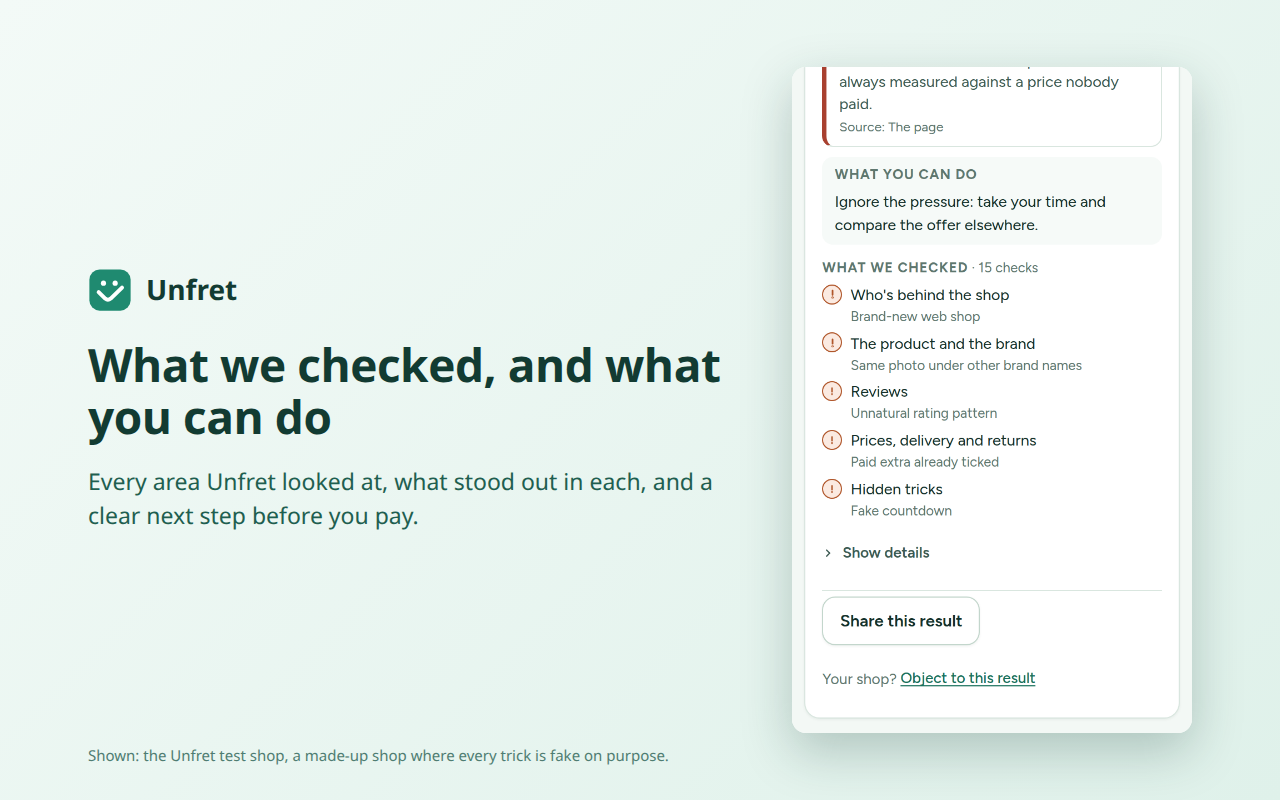
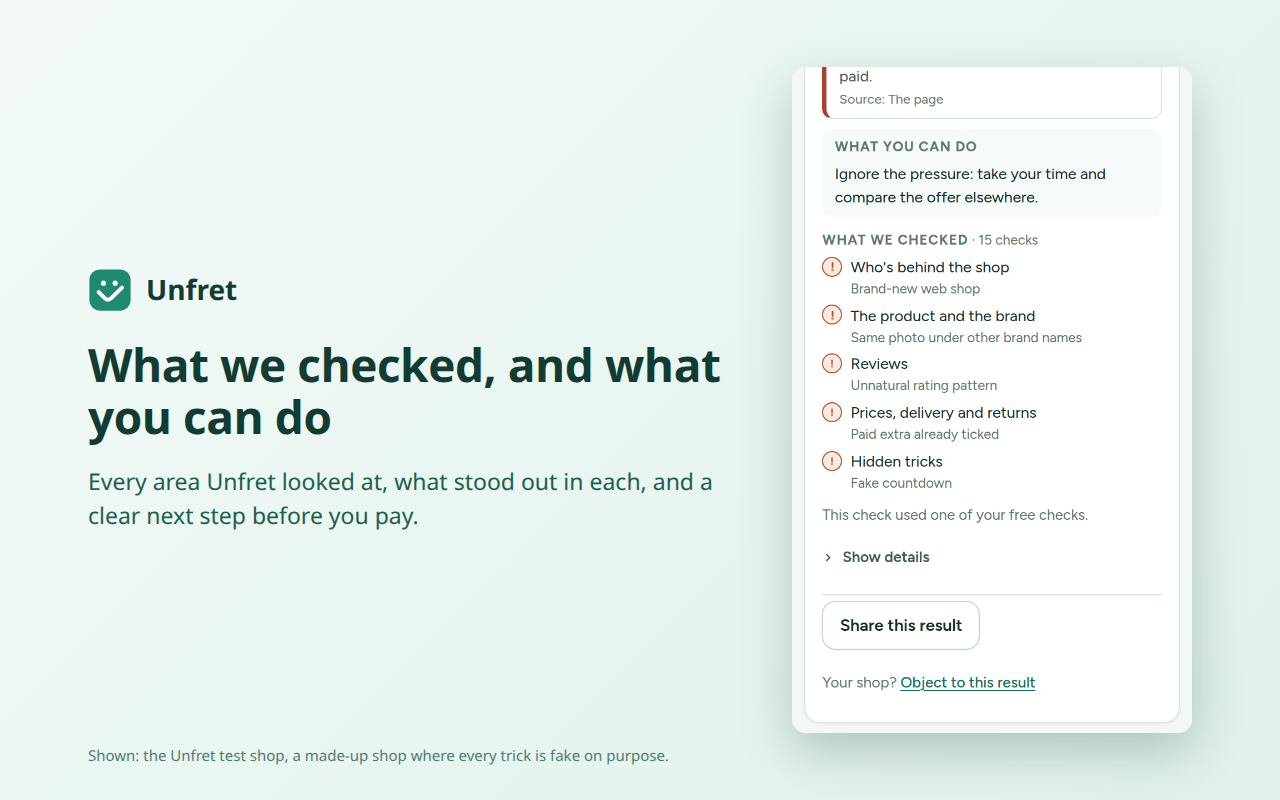
Screenshots rendered again with main's popup
After merging main, `make screenshots` renders "Free to start" with the
"Quick check (free)" button under "Check this page" and "What we checked"
with what the check cost; the other screenshots are unchanged.

Changed region(s): [[0.625, 0.0938, 0.875, 0.6562], [0.6562, 0.6875, 0.7812, 0.8125], [0.625, 0.8438, 0.8125, 0.875]]

diff --git a/CHANGELOG.md b/CHANGELOG.md
@@ -34,7 +34,8 @@ backend's changelog, which lists each one published at `/extension`.)
   pay.", the website's tagline, instead of "Shop without the worry.", and the marquee's line names fake sellers on
   marketplaces first. The screenshots' results were checked again on dev.unfret.net (dates as the server now writes
   them, "November 18, 2026"; "Prices, delivery and returns" as the area's name) and the screenshots rendered from
-  them; they differ from the ones submitted with 0.12.0.
+  them, with the popup as it now is (the "Quick check (free)" button, what the check cost); they differ from the ones
+  submitted with 0.12.0.
 
 ## 0.12.0 (unreleased)
 
